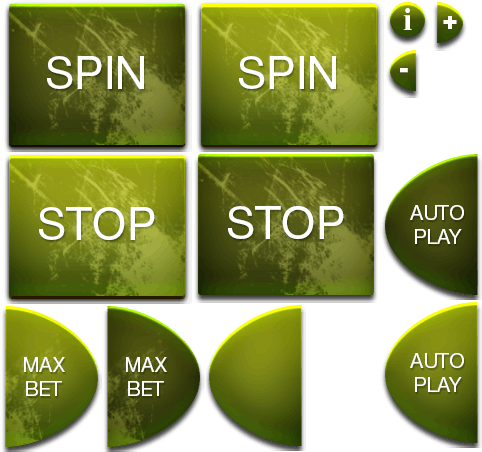
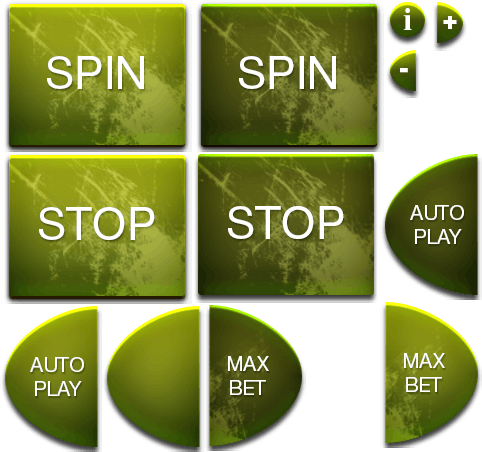
draw desk buttons

diff --git a/markup/modules/Buttons/Buttons.js b/markup/modules/Buttons/Buttons.js
@@ -50,9 +50,28 @@ export let buttons = (function () {
 
     }
 
-    function drawDesktopPanel(container, game, maincontainer) {
-        let panelBG = game.add.sprite(game.world.centerX, 910, 'ui', container);
+    function drawDesktopPanel(container, game, mainContainer) {
+        let panelBG = game.add.sprite(game.world.centerX, mainContainer.height + 70, 'ui', null, container);
         panelBG.anchor.set(0.5);
+
+        let lines = game.add.text(mainContainer.x + 385, mainContainer.height + 85, '10', {font: 'normal 32px Helvetica', fill: '#e8b075', align: 'center'}, container);
+        let info = game.add.button(mainContainer.x + 1500, mainContainer.height + 80, 'deskButtons', actionOnClick, this, 'info.png', 'info.png', 'info.png', container);
+        let betLevelPlus = game.add.button(mainContainer.x + 575, mainContainer.height + 82, 'deskButtons', actionOnClick, this, 'plus.png', 'plus.png', 'plus.png', container);
+        let betLevelMinus = game.add.button(mainContainer.x + 475, mainContainer.height + 81, 'deskButtons', actionOnClick, this, 'minus.png', 'minus.png', 'minus.png', container);
+        let coinLevelPlus = game.add.button(mainContainer.x + 1410, mainContainer.height + 82, 'deskButtons', actionOnClick, this, 'plus.png', 'plus.png', 'plus.png', container);
+        let coinLevelMinus = game.add.button(mainContainer.x + 1285, mainContainer.height + 81, 'deskButtons', actionOnClick, this, 'minus.png', 'minus.png', 'minus.png', container);
+
+        let spinButtonDesk = game.add.button(0, mainContainer.height + 70, 'deskButtons', actionOnClick, this, 'spinOn.png', 'spin.png', 'spinOn.png', container);
+        spinButtonDesk.anchor.set(0.5);
+        spinButtonDesk.x = container.x + 950;
+        let maxBetButtonDesk = game.add.button(spinButtonDesk.x + 137, mainContainer.height + 69, 'deskButtons', actionOnClick, this, 'maxBetOn.png', 'maxBet.png', 'maxBetOn.png', container);
+        let autoButtonDesk = game.add.button(spinButtonDesk.x - 137, mainContainer.height + 70, 'deskButtons', actionOnClick, this, 'autoOn.png', 'auto.png', 'autoOn.png', container);
+        maxBetButtonDesk.anchor.set(0.5);
+        autoButtonDesk.anchor.set(0.5);
+
+        function actionOnClick() {
+            console.log('i am clicked!');
+        }
     }
 
     return {

diff --git a/markup/modules/Balance/Balance.js b/markup/modules/Balance/Balance.js
@@ -70,6 +70,8 @@ export let balance = (function () {
         balanceData.winCash = (0).toFixed(2);
         balanceData.currency = model.data('initBalance').Currency;
 
+        let mainContainer = model.el('mainContainer');
+
         let balanceFont;
 
         if (model.flag('mobile')) {
@@ -93,10 +95,11 @@ export let balance = (function () {
             balanceText.coinsSum.setShadow(0, 0, '#e8b075', 4);
             balanceText.betSum.setShadow(0, 0, '#e8b075', 4);
         } else {
-            balanceText.coinsSum = game.add.text(20, game.world.height - 65, balanceData.coinsSum, {font: 'normal 25px Helvetica', fill: '#e8b075', align: 'center'}, container);
-            balanceText.coinsValue = game.add.text(40, game.world.height - 65, balanceData.coinsValue, {font: 'normal 25px Helvetica', fill: '#e8b075', align: 'center'}, container);
-            balanceText.betSum = game.add.text(60, game.world.height - 65, balanceData.betSum, {font: 'normal 25px Helvetica', fill: '#e8b075', align: 'center'}, container);
-            balanceText.betValue = game.add.text(80, game.world.height - 65, balanceData.betValue, {font: 'normal 25px Helvetica', fill: '#e8b075', align: 'center'}, container);
+            balanceText.coinsSum = game.add.text(mainContainer.x + 420, mainContainer.height + 2, balanceData.coinsSum, {font: 'normal 32px Helvetica', fill: '#e8b075', align: 'center'}, container);
+            balanceText.coinsValue = game.add.text(mainContainer.x + 1340, mainContainer.height + 85, balanceData.coinsValue, {font: 'normal 32px Helvetica', fill: '#e8b075', align: 'center'}, container);
+            balanceText.betSum = game.add.text(mainContainer.x + 1470, mainContainer.height + 2, balanceData.betSum, {font: 'normal 32px Helvetica', fill: '#e8b075', align: 'center'}, container);
+            balanceText.betValue = game.add.text(mainContainer.x + 540, mainContainer.height + 85, balanceData.betValue, {font: 'normal 32px Helvetica', fill: '#e8b075', align: 'center'}, container);
+            // console.log(balanceText.betValue.y);
         }
         model.data('balanceText', balanceText);
         model.data('balanceData', balanceData);

diff --git a/markup/modules/States/Main.js b/markup/modules/States/Main.js
@@ -14,15 +14,16 @@ export class Main {
         console.info('Main State!');
         this.bgContainer = this.add.group();
         this.mainContainer = this.add.group();
-        this.balanceContainer = this.add.group();
         this.buttonsContainer = this.add.group();
         this.panelContainer = this.add.group();
+        this.balanceContainer = this.add.group();
         this.menuContainer = this.add.group();
         model.el('bgContainer', this.bgContainer);
         model.el('mainContainer', this.mainContainer);
         model.el('balanceContainer', this.balanceContainer);
         model.el('buttonsContainer', this.buttonsContainer);
         model.el('menuContainer', this.menuContainer);
+        model.el('panelContainer', this.panelContainer);
         model.state('side', 'left');
         this.frameAnims = [];
     }
@@ -51,7 +52,6 @@ export class Main {
             this.mainContainer.x = model.data('mainXLeft');
         } else {
             this.mainContainer.x = (this.game.width - this.mainContainer.width) / 2;
-            this.mainContainer.y = this.mainContainer.y + 5;
         }
         this.initWheels();
         this.startRoll();
